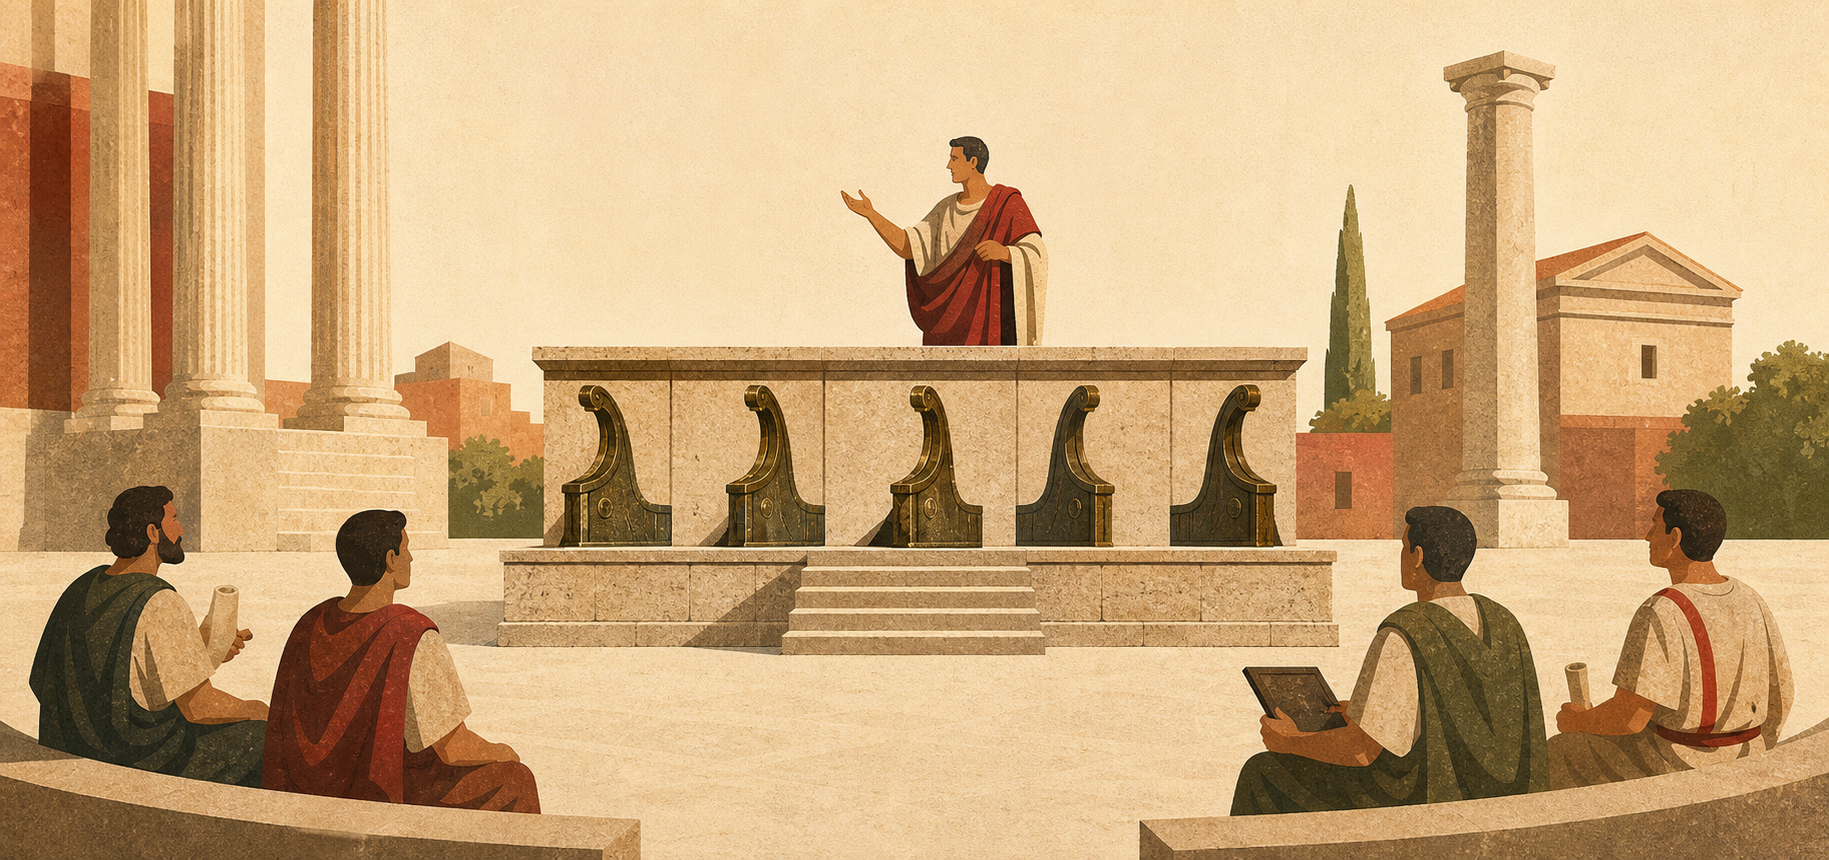
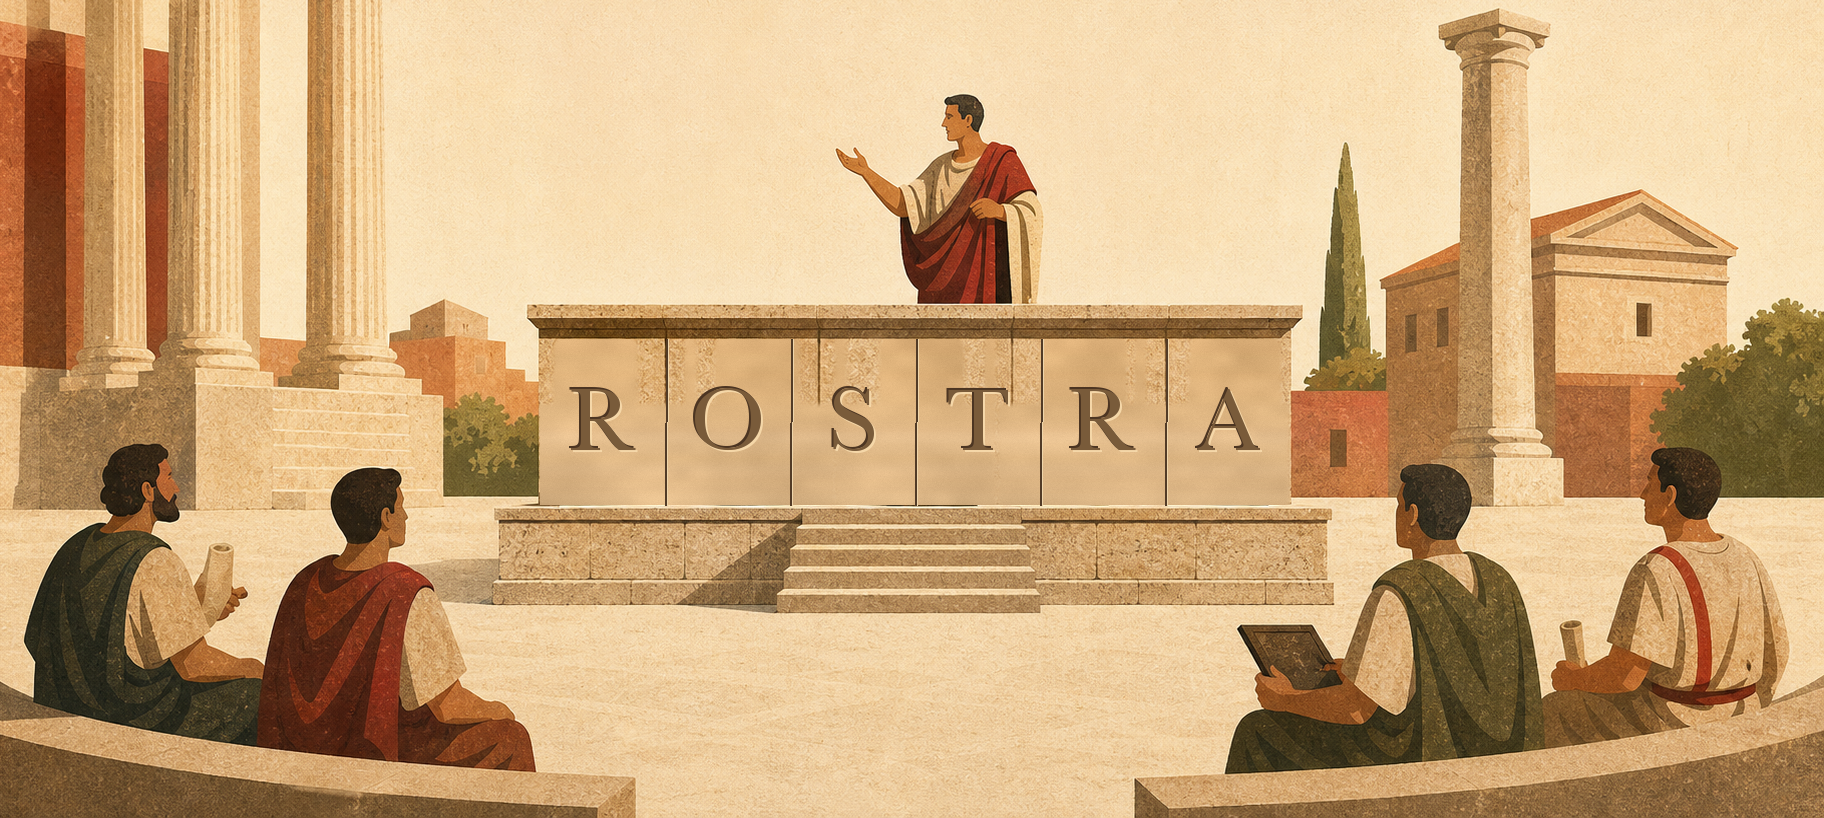
docs: refresh README hero

Changed region(s): [[0.0, 0.0, 1.0, 1.0], [0.2812, 0.9474, 0.375, 1.0]]

diff --git a/README.md b/README.md
@@ -1,6 +1,4 @@
-![A Roman orator addressing a civic audience from the Rostra, with bronze ship rams mounted across the platform](assets/rostra-hero.png)
-
-# Rostra
+![Rostra — a Roman orator addressing a civic audience from a stone podium carved with the name ROSTRA](assets/rostra-hero.png)
 
 Rostra is a TypeScript MCP server for durable, evidence-backed deliberation and Decision CI.
 
